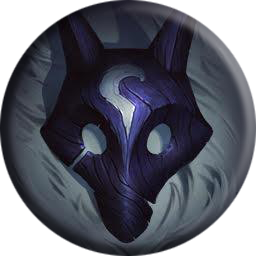
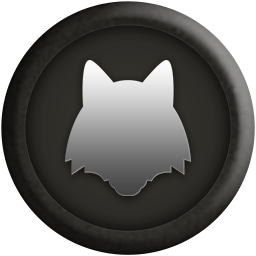
优化AI性能和更换图标
提升AI搜索算法的性能

diff --git a/WolfGameLib.UI/Controls/WolfBoardBox.xaml b/WolfGameLib.UI/Controls/WolfBoardBox.xaml
@@ -8,7 +8,7 @@
              d:DesignHeight="300" d:DesignWidth="300">
     <Grid>
         <Grid x:Name="Grid0" Margin="0,0,0,0" HorizontalAlignment="Left" VerticalAlignment="Top">
-            <TextBlock x:Name="TextBlock1" Text="狼" FontSize="12" Foreground="#FF939393" Margin="-100,0,0,0" HorizontalAlignment="Left" VerticalAlignment="Top" />
+            <TextBlock x:Name="TextBlock1" Text="" FontSize="12" Foreground="#FF939393" Margin="-100,0,0,0" HorizontalAlignment="Left" VerticalAlignment="Top" />
             <Button x:Name="Button1" Margin="-100,34.365,0,-34.365" HorizontalAlignment="Left" VerticalAlignment="Top" Content="提示"/>
             <Button x:Name="Button2" Margin="-100,66.873,0,-66.873" HorizontalAlignment="Left" VerticalAlignment="Top" Content="悔棋"/>
             <Button x:Name="Button3" Margin="-100,103.094,0,-103.095" HorizontalAlignment="Left" VerticalAlignment="Top" Content="终止"/>

diff --git a/WolfGameLib.UI/Controls/PieceBox.xaml b/WolfGameLib.UI/Controls/PieceBox.xaml
@@ -8,8 +8,8 @@
              d:DesignHeight="32" d:DesignWidth="32">
     <Grid x:Name="Grid0">
         <Grid x:Name="Grid1" Margin="-12,-12,0,0">
-            <Image x:Name="Image0" Source="/WolfGameLib.UI;component/Image/Wolf.png" HorizontalAlignment="Left" VerticalAlignment="Top" Width="24" Height="24" />
-            <Image x:Name="Image1" Visibility="Collapsed" Source="/WolfGameLib.UI;component/Image/Sheep.png" HorizontalAlignment="Left" VerticalAlignment="Top" Width="24" Height="24" />
+            <Image x:Name="Image0" Source="/WolfGameLib.UI;component/Image/wolf.png" HorizontalAlignment="Left" VerticalAlignment="Top" Width="24" Height="24" />
+            <Image x:Name="Image1" Source="/WolfGameLib.UI;component/Image/sheep.png" Visibility="Collapsed" HorizontalAlignment="Left" VerticalAlignment="Top" Width="24" Height="24"/>
         </Grid>
     </Grid>
 </UserControl>

diff --git a/WolfGameLib.UI/Controls/WolfGameBox.xaml b/WolfGameLib.UI/Controls/WolfGameBox.xaml
@@ -18,6 +18,6 @@
             </local:WolfBoardBox.RenderTransform>
         </local:WolfBoardBox>
         <local:SettingsBox x:Name="SettingBox1" HorizontalAlignment="Center" VerticalAlignment="Center" />
-        
+<local:PieceBox />
     </Grid>
 </UserControl>
